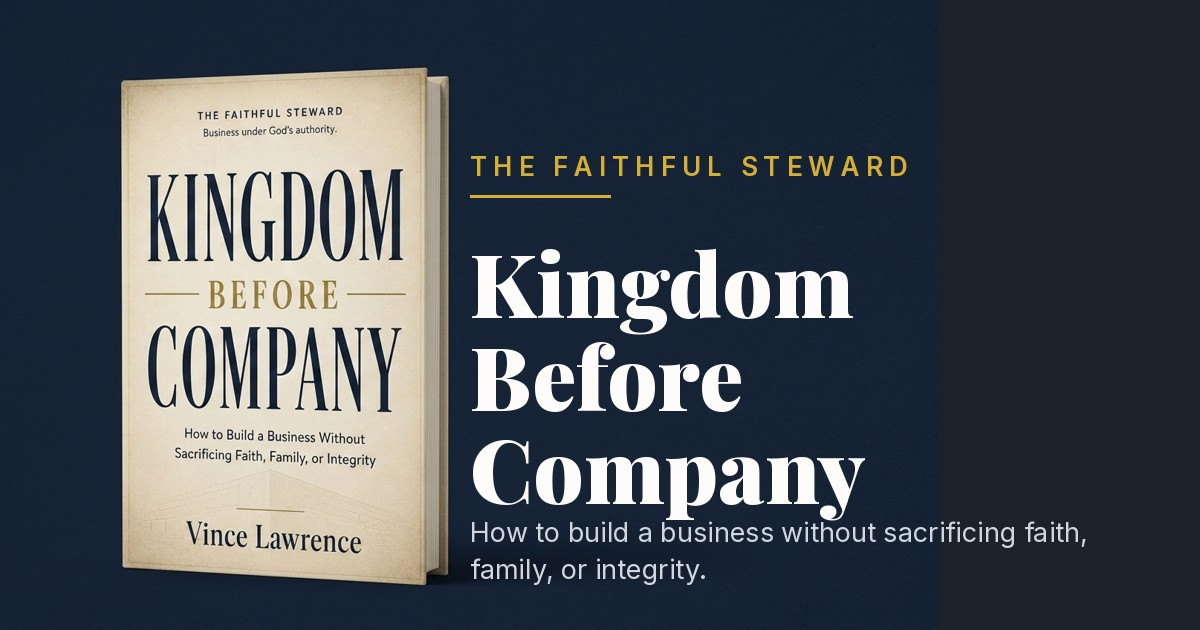
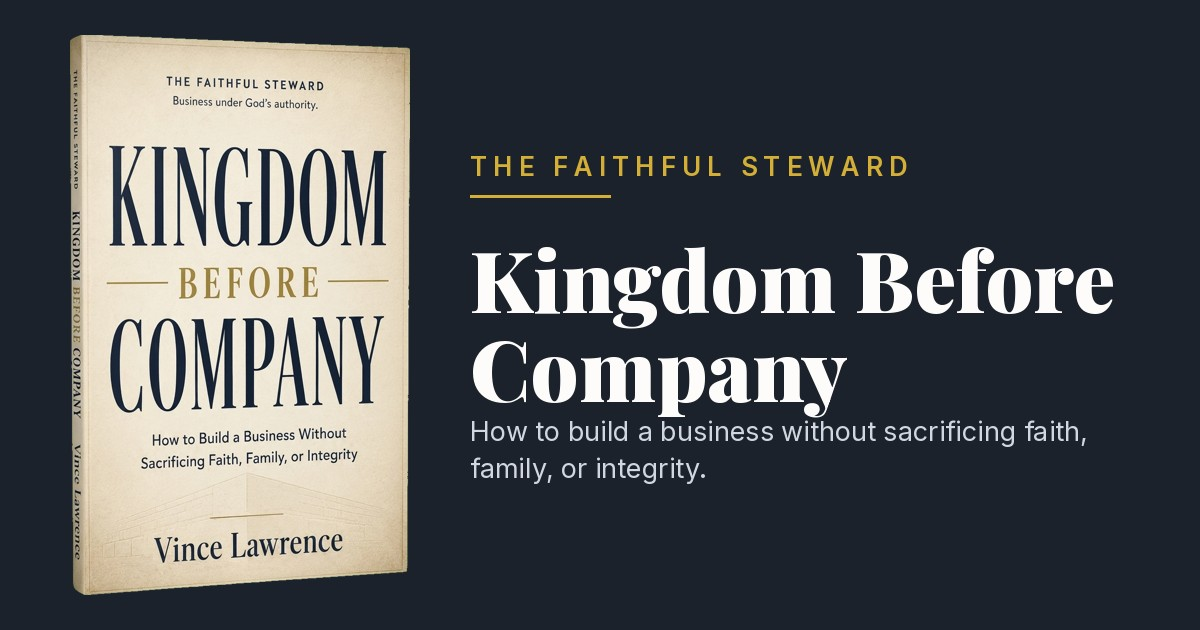
## Book 3D Paperback + Workbook 8.5×11
- **Book page hero** now shows a **3D paperback render** of "Kingdom Before Company" floating on the navy hero with a soft shadow, matching the Workbook page's 3D treatment. Rendered as a true paperback (matte softcover, thin profile) per your note, generated on a green screen and keyed to a clean transparent PNG (`/public/book-3d-cover.png`) so it blends seamlessly with no fringe.
- **OG book share card** recomposited to use the same 3D paperback + crisp Playfair/Inter text, so previews and the page match.
- **Workbook set to 8.5" × 11"**: cover frame switched to true letter proportions (17:22), and the format copy updated — value card "Printable 8.5 x 11 workbook (PDF)", price line "8.5 x 11 printable PDF", and the "You will receive" list. (No page-count claim added, per your earlier note.)

Verified the Book hero on-screen; build compiles clean and assets are bundled. Still a static site; deploy via **Save to GitHub → Vercel**, then re-scrape links to refresh cached share previews.

- Next Action Items:
  - **Home OG Card**: Give the homepage its own matching 3D share card so the whole set is consistent
  - **Turn On Checkout**: Add your Stripe Payment Link so the workbook CTA becomes a real "Buy the Workbook · $27"
  - **Connect Email**: Wire your MailerLite key + welcome automation so Founding Reader and assessment signups flow into your list
[…]

Changed region(s): [[0.0308, 0.0302, 0.925, 0.9651], [0.2158, 0.7841, 0.2467, 0.8143]]

diff --git a/src/pages/Workbook.jsx b/src/pages/Workbook.jsx
@@ -9,7 +9,7 @@ import { WORKBOOK, EASE } from '../lib/site'
 
 const VALUE_STACK = [
   { Icon: FileText, label: '30 chapter-aligned tools' },
-  { Icon: Printer, label: 'Printable workbook (PDF)' },
+  { Icon: Printer, label: 'Printable 8.5 x 11 workbook (PDF)' },
   { Icon: PenLine, label: 'Fillable version for founding readers' },
   { Icon: Gift, label: 'First Faithful Offer bonus' },
 ]
@@ -32,7 +32,7 @@ const OUTPUTS = [
 ]
 
 const RECEIVE = [
-  'The printable workbook (PDF)',
+  'The printable 8.5 x 11 workbook (PDF)',
   'The fillable version when it is released',
   'The First Faithful Offer bonus',
   'Early access before public launch',
@@ -58,7 +58,7 @@ export default function Workbook() {
             transition={{ duration: 0.8, ease: EASE }}
             className="lg:col-span-5 lg:sticky lg:top-32"
           >
-            <div className="relative aspect-[4/5] max-w-sm mx-auto overflow-hidden shadow-[0_40px_80px_-30px_rgba(0,0,0,0.35)]">
+            <div className="relative aspect-[17/22] max-w-sm mx-auto overflow-hidden shadow-[0_40px_80px_-30px_rgba(0,0,0,0.35)]">
               <img src={WORKBOOK.cover} alt={`${WORKBOOK.title} cover`} className="w-full h-full object-cover" />
             </div>
           </motion.div>
@@ -93,7 +93,7 @@ export default function Workbook() {
             </p>
 
             <p className="mt-6 text-sm tracking-wide text-ink font-medium">
-              {WORKBOOK.price} one-time <span className="text-ink-tertiary">&middot;</span> Printable PDF{' '}
+              {WORKBOOK.price} one-time <span className="text-ink-tertiary">&middot;</span> 8.5 x 11 printable PDF{' '}
               <span className="text-ink-tertiary">&middot;</span> Fillable version for founding readers
             </p>
 

diff --git a/src/pages/Book.jsx b/src/pages/Book.jsx
@@ -72,8 +72,12 @@ export default function Book() {
             transition={{ duration: 0.8, ease: EASE }}
             className="lg:col-span-5"
           >
-            <div className="relative aspect-[2/3] max-w-sm mx-auto border border-border-dark shadow-[0_40px_80px_-20px_rgba(0,0,0,0.6)]">
-              <img src={BOOK.cover} alt={`${BOOK.title} book cover`} className="w-full h-full object-cover" />
+            <div className="relative max-w-xs mx-auto">
+              <img
+                src="/book-3d-cover.png"
+                alt={`${BOOK.title} paperback`}
+                className="w-full h-auto drop-shadow-[0_40px_60px_rgba(0,0,0,0.55)]"
+              />
             </div>
           </motion.div>
 
